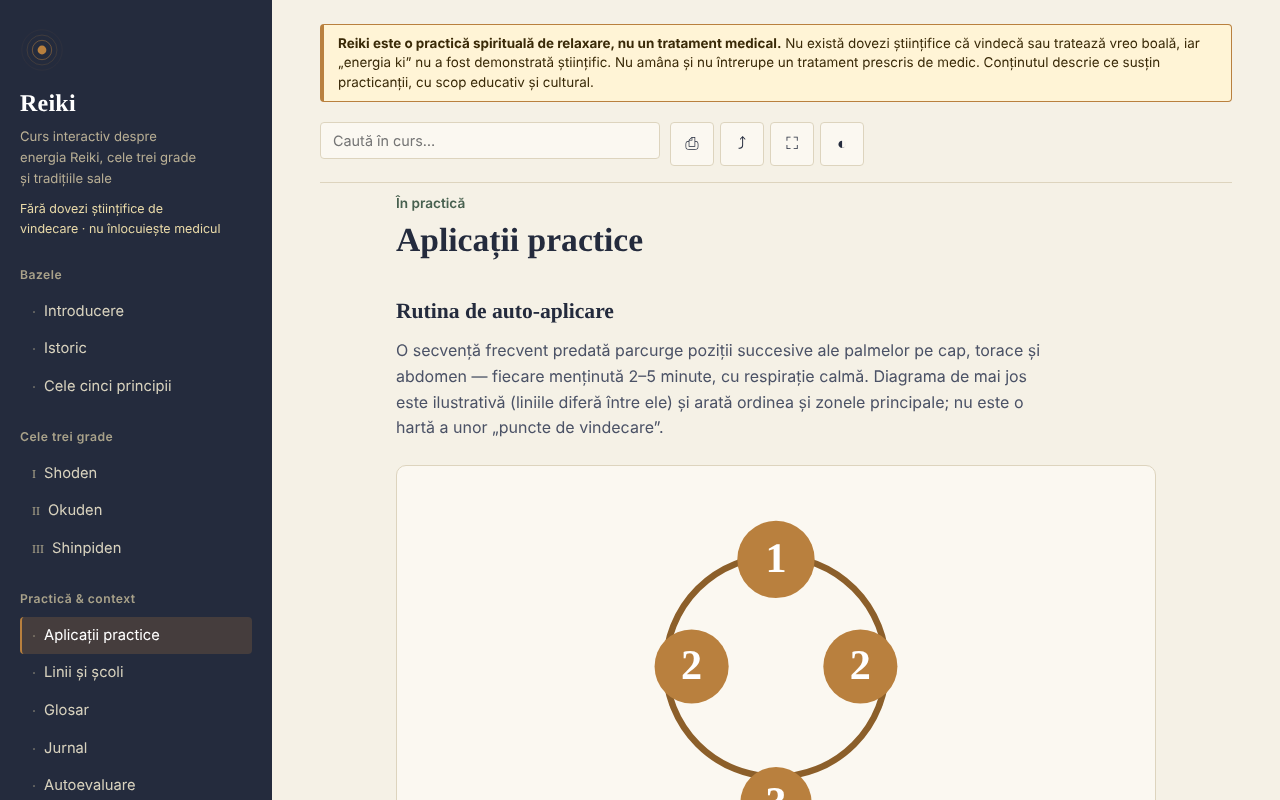
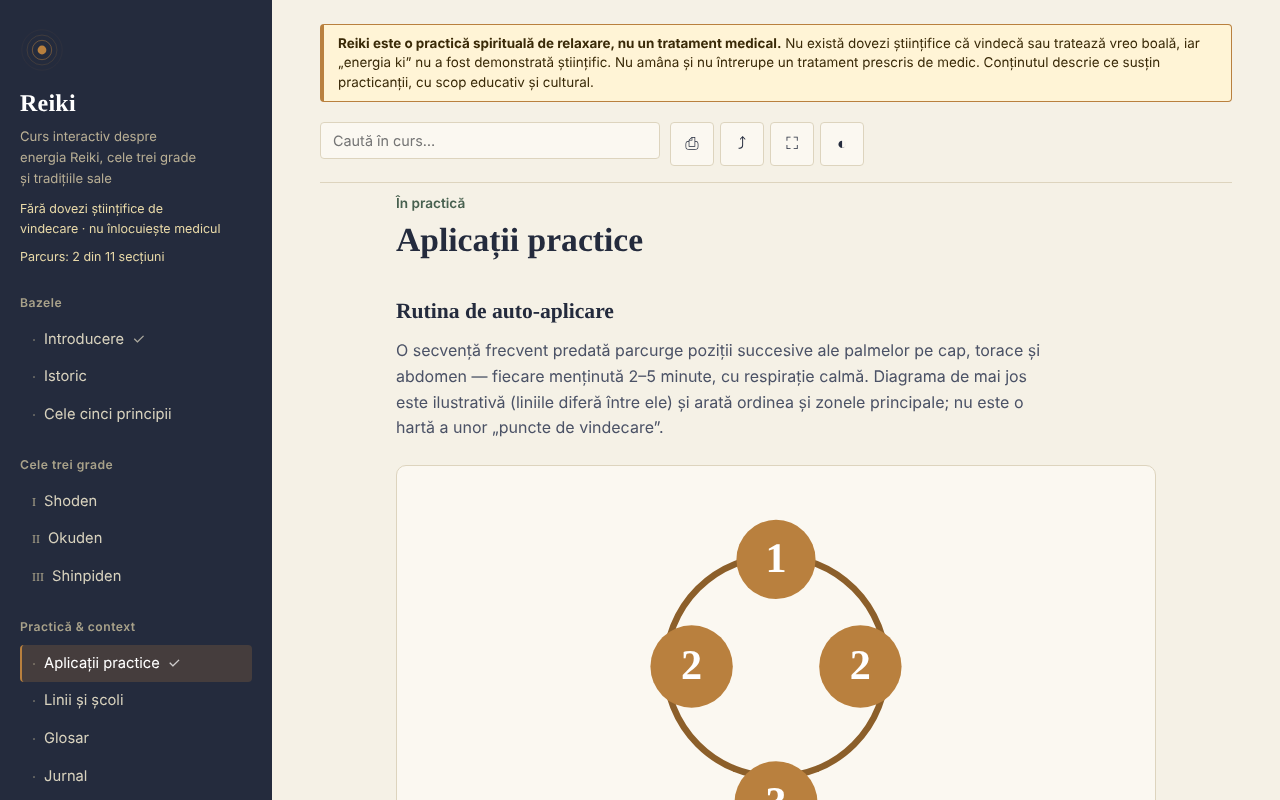
Runda 6 (11 octombrie 2026): reparații și îmbunătățiri
Claude-Session: https://claude.ai/code/session_01D2sCEb3hy3nutYexhUfQFs

diff --git a/index.html b/index.html
@@ -3,7 +3,7 @@
 <head>
 <meta charset="UTF-8">
 <meta name="viewport" content="width=device-width, initial-scale=1">
-<meta http-equiv="Content-Security-Policy" content="default-src 'none'; script-src 'unsafe-inline'; style-src 'unsafe-inline'; img-src data:; base-uri 'none'; form-action 'none'">
+<meta http-equiv="Content-Security-Policy" content="default-src 'none'; script-src 'sha256-RRKj7G5X3rxJlt2ga+45bIjygUu9RIM89dHwl6yxOsI='; style-src 'unsafe-inline'; img-src data:; base-uri 'none'; form-action 'none'">
 <meta name="theme-color" content="#242B3D">
 <meta property="og:type" content="website">
 <meta property="og:title" content="Reiki — curs interactiv">
@@ -290,7 +290,7 @@
   :focus-visible{outline:2px solid var(--accent);outline-offset:2px}
 
   @media print{
-    .sidebar,.nav-toggle,.toolbar,.btn,#quizReset{display:none !important}
+    .sidebar,.nav-toggle,.toolbar,.btn,#quizReset,.pager{display:none !important}
     .content{padding:0}
     .app{display:block}
     .panel{display:block !important;max-width:100%;page-break-after:always;animation:none}
@@ -305,6 +305,11 @@
     padding:9px 14px;margin:0 0 10px;font-size:.84rem;line-height:1.45;box-shadow:0 10px 0 var(--bg);
   }
   .disclaimer strong{color:inherit}
+  .brand .brand-progress{margin-top:8px;font-size:.78rem;color:var(--side-warn)}
+  .navlist a.seen::after{content:" \2713";opacity:.75}
+  .pager{display:flex;justify-content:space-between;gap:12px;flex-wrap:wrap;max-width:var(--maxw);margin:32px auto 0;padding-top:16px;border-top:1px solid var(--line)}
+  .pager a{color:var(--accent-deep);font-weight:600;text-decoration:none;padding:8px 4px}
+  .pager a:hover,.pager a:focus-visible{text-decoration:underline}
   .brand .brand-warn{margin-top:10px;font-size:.78rem;max-width:26ch;color:var(--side-warn)}
   .toolbar{top:var(--dh,0px)}
   .tool-btns button{width:44px;height:44px}
@@ -351,6 +356,7 @@
       <p class="brand-title">Reiki</p>
       <p>Curs interactiv despre energia Reiki, cele trei grade și tradițiile sale</p>
       <p class="brand-warn">Fără dovezi științifice de vindecare · nu înlocuiește medicul</p>
+      <p class="brand-progress" id="progress"></p>
     </div>
     <div class="navgroup">
       <h2>Bazele</h2>
@@ -1049,6 +1055,47 @@
 
   $("quizReset").addEventListener("click", function(){ renderQuiz(); });
   renderQuiz();
+
+  /* ---- progres local (secțiuni parcurse), butoane Anterior/Următor, cel mai bun scor la test ---- */
+  var SKEY = "reiki.parcurse", QKEY = "reiki.scorMax";
+  var seen = {};
+  try{ var sv = JSON.parse(localStorage.getItem(SKEY) || "[]"); if(Array.isArray(sv)) sv.forEach(function(k){ if(ids.indexOf(k) >= 0) seen[k] = 1; }); }catch(e){}
+  function paintProgress(){
+    var n = 0;
+    links.forEach(function(l){ var on = !!seen[l.getAttribute("data-target")]; l.classList.toggle("seen", on); if(on) n++; });
+    var pg = $("progress"); if(pg) pg.textContent = "Parcurs: " + n + " din " + ids.length + " secțiuni";
+  }
+  function markSeen(t){
+    if(seen[t]) return;
+    seen[t] = 1;
+    try{ localStorage.setItem(SKEY, JSON.stringify(Object.keys(seen))); }catch(e){}
+    paintProgress();
+  }
+  panels.forEach(function(p, i){
+    var nav = document.createElement("nav");
+    nav.className = "pager"; nav.setAttribute("aria-label", "Secțiunea anterioară / următoare");
+    function lnk(idx, prev){
+      var a = document.createElement("a"), h = panels[idx].querySelector("h2.title");
+      a.href = "#" + ids[idx];
+      a.textContent = (prev ? "← " : "") + (h ? h.textContent : ids[idx]) + (prev ? "" : " →");
+      a.addEventListener("click", function(e){ e.preventDefault(); try{ location.hash = ids[idx]; }catch(err){ activate(ids[idx], true); } });
+      return a;
+    }
+    if(i > 0) nav.appendChild(lnk(i - 1, true)); else nav.appendChild(document.createElement("span"));
+    if(i < panels.length - 1) nav.appendChild(lnk(i + 1, false));
+    p.appendChild(nav);
+  });
+  var baseActivate = activate;
+  activate = function(target, focusHeading){ baseActivate(target, focusHeading); markSeen(ids.indexOf(target) < 0 ? "intro" : target); };
+  var baseScore = showScore;
+  showScore = function(){
+    baseScore();
+    var c = (scoreBox.textContent.match(/Scor: (\d+)/) || [])[1]; c = parseInt(c, 10);
+    var best = 0; try{ best = parseInt(localStorage.getItem(QKEY), 10) || 0; }catch(e){}
+    if(c > best){ best = c; try{ localStorage.setItem(QKEY, String(c)); }catch(e){} }
+    scoreBox.textContent += " Cel mai bun scor în acest browser: " + best + " din " + QUESTIONS.length + ".";
+  };
+  paintProgress();
 
   /* ---- pornire: respectă #hash ---- */
   setNav(false);

diff --git a/README.md b/README.md
@@ -23,6 +23,7 @@ Verificate în cod și în browser:
 - Tipărire (doar secțiunea afișată), distribuire (link, prin meniul de partajare sau copiat în clipboard), ecran complet, menținerea ecranului activ (acolo unde browserul o permite).
 - Jurnal de practică: text liber, salvat automat local (`localStorage`, cheia `reiki.jurnal`), descărcabil ca `.txt`, cu confirmare la golire.
 - Autoevaluare de 10 întrebări cu explicații; ordinea răspunsurilor se amestecă la fiecare încercare.
+- Progres local: secțiunile parcurse sunt bifate în meniu (cu contor), la finalul fiecărei secțiuni sunt linkuri „Anterior / Următor”, iar cel mai bun scor la autoevaluare e reținut (`localStorage`, cheile `reiki.parcurse` și `reiki.scorMax`; fără trimitere în rețea).
 - Respectă `prefers-reduced-motion` (animațiile SVG se opresc); funcționează de la 390 px lățime; fără JavaScript se afișează toate secțiunile unele sub altele.
 
 ## Manual de utilizare
@@ -36,7 +37,7 @@ Verificate în cod și în browser:
 
 ## Confidențialitate și rețea
 
-- Stocare locală: doar jurnalul de practică, în `localStorage` (cheia `reiki.jurnal`), pe dispozitivul tău; nu se trimite nicăieri. Dacă browserul blochează stocarea, jurnalul rămâne doar în memorie și browserul avertizează la închidere. Nu se folosesc `sessionStorage`, IndexedDB sau cookie-uri.
+- Stocare locală: jurnalul de practică, în `localStorage` (cheia `reiki.jurnal`), plus progresul (`reiki.parcurse`, `reiki.scorMax`), pe dispozitivul tău; nu se trimite nicăieri. Dacă browserul blochează stocarea, jurnalul rămâne doar în memorie și browserul avertizează la închidere. Nu se folosesc `sessionStorage`, IndexedDB sau cookie-uri.
 - Rețea: aplicația nu face nicio cerere de rețea (nu are `fetch`, scripturi, fonturi, imagini sau iframe-uri externe) și nu conține linkuri externe. O politică CSP (`default-src 'none'`) din pagină blochează orice încărcare externă. În `<head>` apar doar adrese în metadatele Open Graph (`chiuta.github.io`), care nu sunt accesate de aplicație.
 - Permisiuni: nu cere permisiuni. „Ecran activ" folosește Screen Wake Lock API, iar „Distribuie" folosește meniul de partajare al sistemului sau clipboard-ul, ambele doar la apăsarea butonului.
 - Zero telemetrie, fără conturi.
@@ -68,6 +69,7 @@ Reiki is a single-file, offline, Romanian-language course on Reiki as practition
 ## Istoric / Changelog
 
 ### 11 octombrie 2026
+- Progres de învățare local (secțiuni parcurse + contor), navigare Anterior/Următor între secțiuni, cel mai bun scor la test; CSP cu `script-src` pe hash SHA-256, fără `'unsafe-inline'` pentru scripturi.
 - Jurnalul de practică se salvează acum local (`localStorage`) și rămâne după reîncărcare; „Golește" îl șterge.
 - Rezultatele căutării sunt o listă (`ul`) cu numărul de secțiuni găsite.
 - Adăugat `h1` accesibil în conținut (axe `page-has-heading-one` pe mobil); axe 0 violări la 1280 și 360 px.
